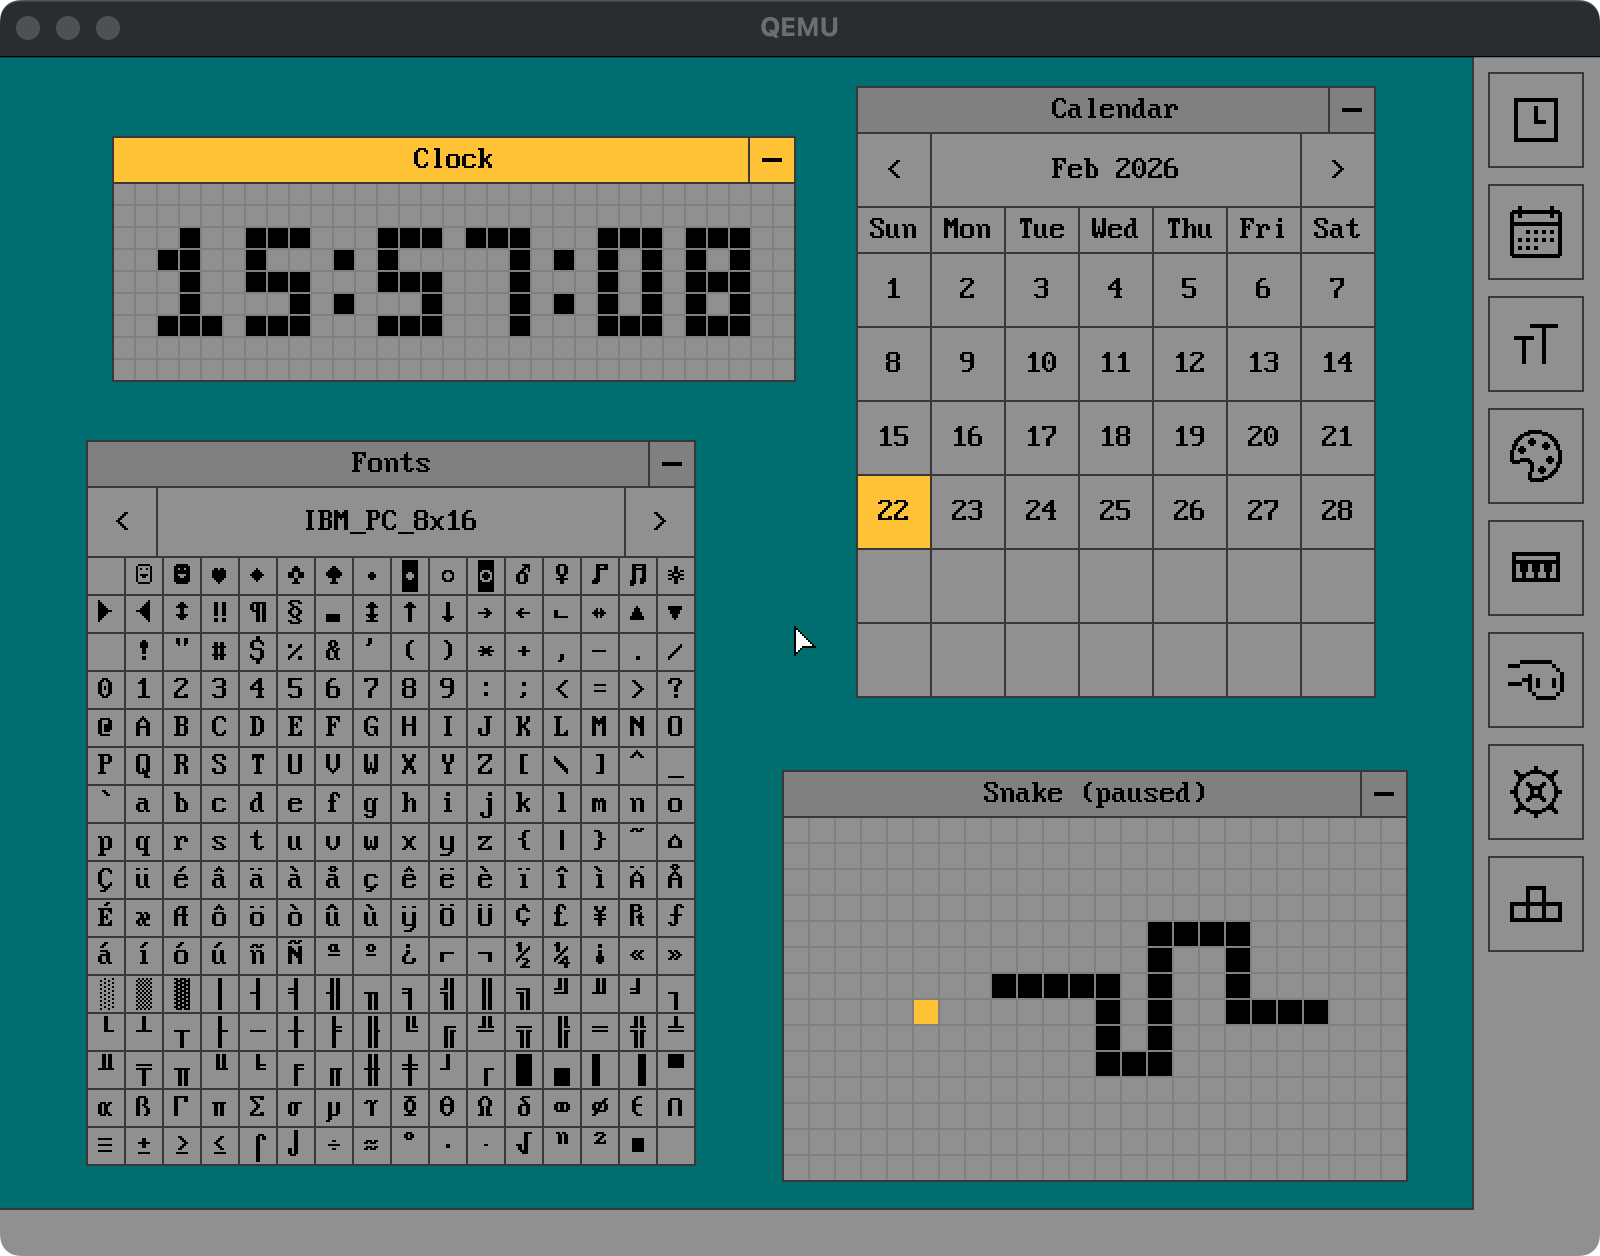
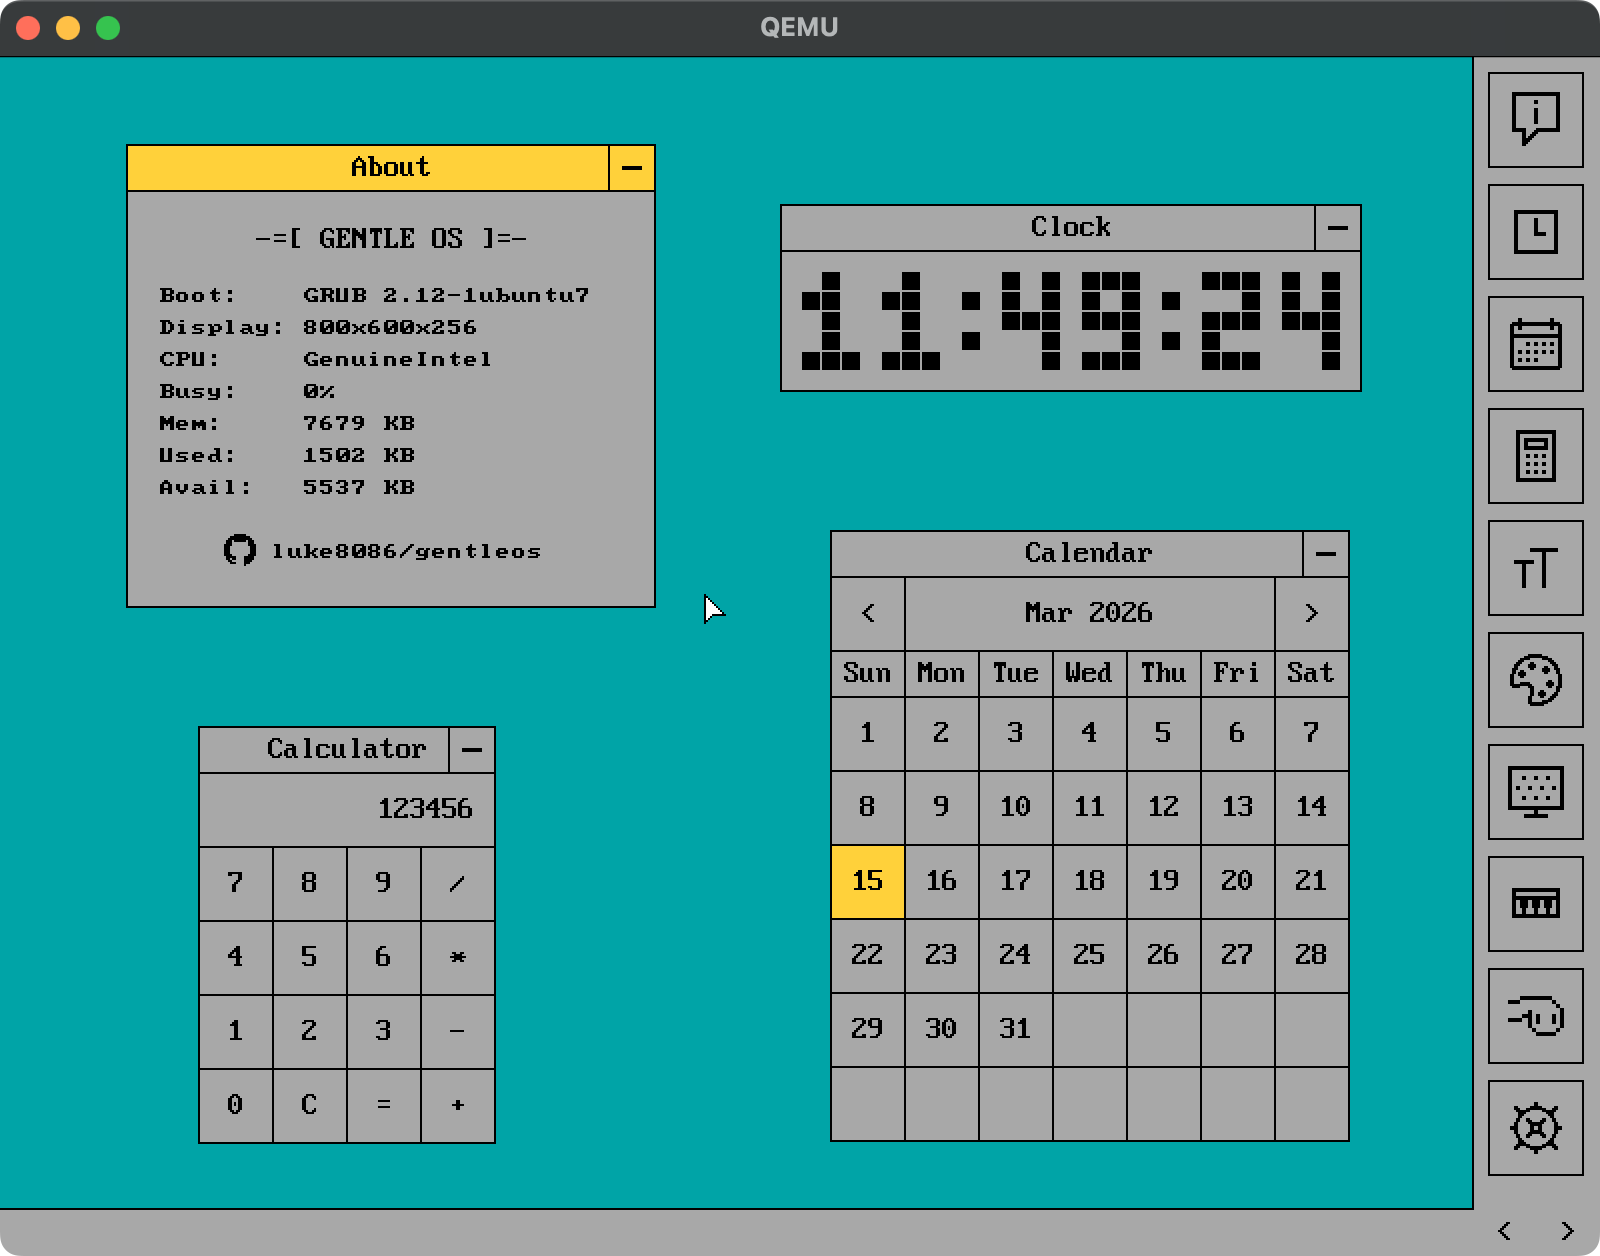
Update screenshots

diff --git a/README.md b/README.md
@@ -3,7 +3,7 @@
 A hobby operating system for vintage 32-bit PCs
 
 <img src="misc/screenshot-01.png" width="320"> <img src="misc/screenshot-02.png" width="320">
-<img src="misc/screenshot-03.jpg" width="320">
+<img src="misc/screenshot-03.png" width="320">
 
 ## Requirements
 